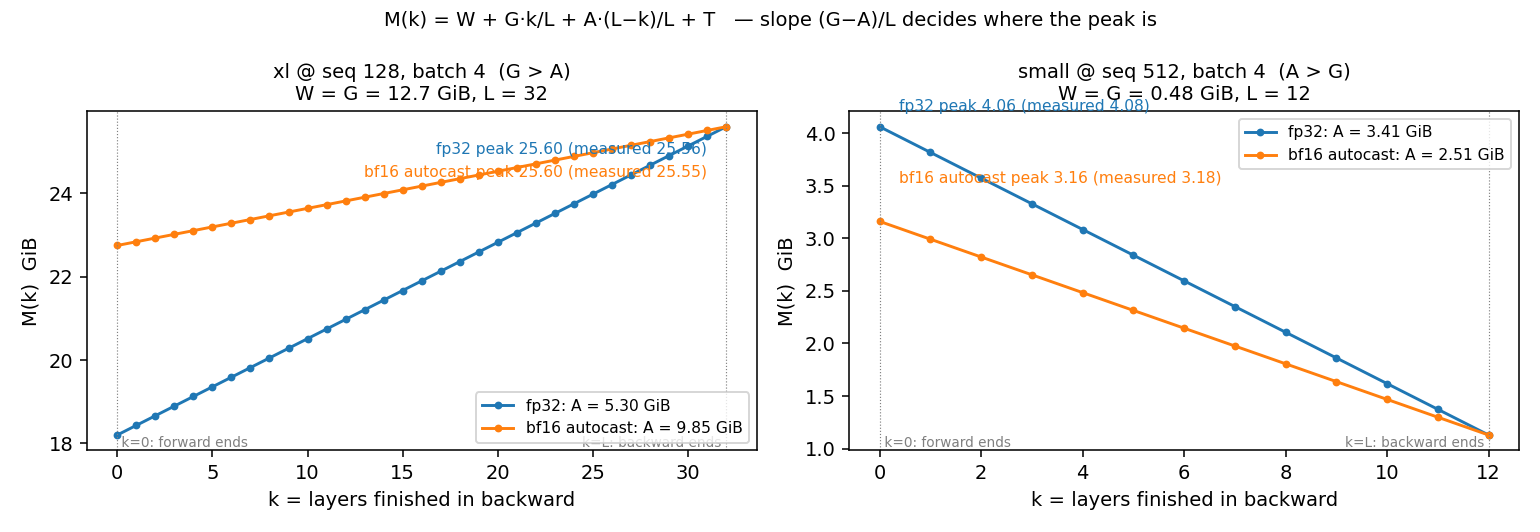
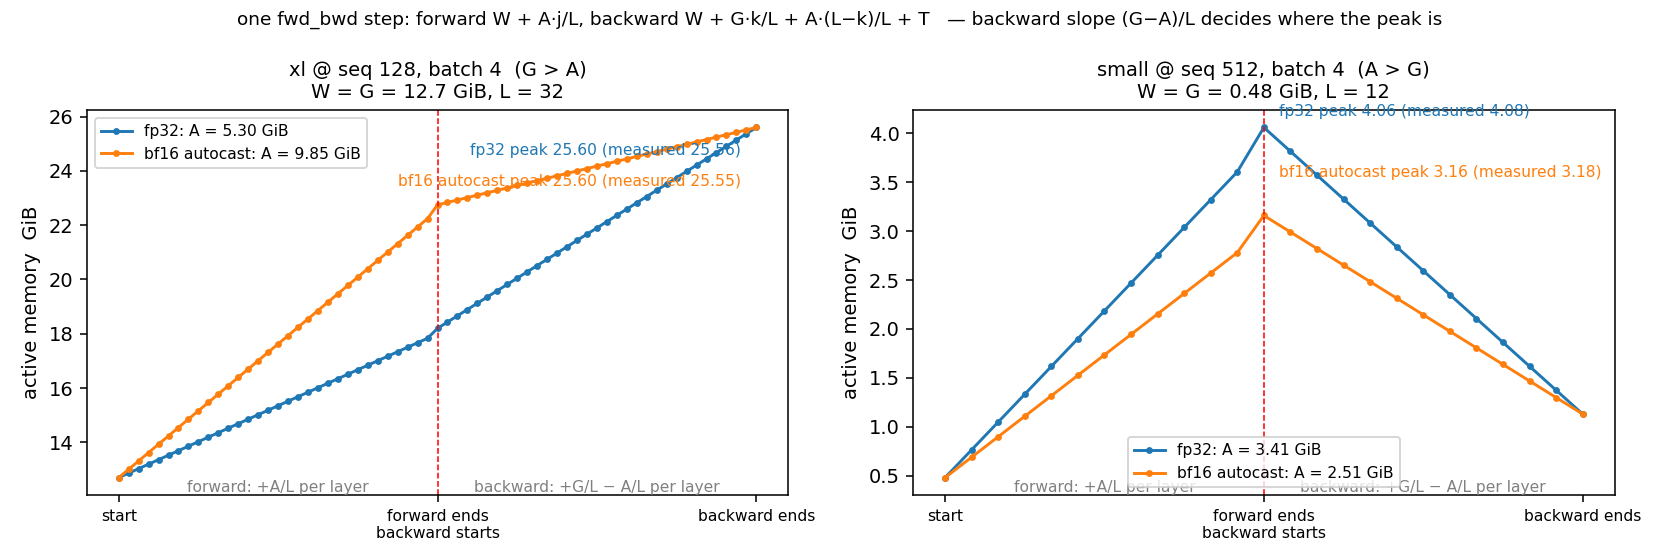
docs(blog): M(k) 图加上前向段，前向末尾含 T

diff --git a/hw2/notes/assets/s2/plot_peak_moment.py b/hw2/notes/assets/s2/plot_peak_moment.py
@@ -1,24 +1,29 @@
-"""§2.3(d)(e)：M(k) = W + G·k/L + A·(L−k)/L + T，xl@128 与 small@512，fp32 vs bf16 autocast。数字来自 memory_xl_peak.md / autocast_saved_tensors.txt。"""
+"""§2.3(d)(e)：一步 fwd_bwd 的显存曲线。前向第 j 层结束：W + A·j/L（末尾加 T）；反向走完 k 层：W + G·k/L + A·(L−k)/L + T。
+xl@128 与 small@512，fp32 vs bf16 autocast。数字来自 memory_xl_peak.md / autocast_saved_tensors.txt。"""
 import matplotlib.pyplot as plt
 
 cases = [  # name, L, W, G, A_fp32, A_bf16(含副本), T, 实测峰值 fp32/bf16
     ("xl @ seq 128, batch 4  (G > A)",    32, 12.7, 12.7, 5.3,  3.5 + 6.35, 0.2,  25.56, 25.55),
     ("small @ seq 512, batch 4  (A > G)", 12, 0.48, 0.48, 3.41, 2.28 + 0.23, 0.17, 4.08, 3.18),
 ]
-fig, axes = plt.subplots(1, 2, figsize=(11, 3.8))
+fig, axes = plt.subplots(1, 2, figsize=(12, 4))
 for ax, (name, L, W, G, A32, A16, T, p32, p16) in zip(axes, cases):
-    ks = list(range(L + 1))
+    xs = list(range(2 * L + 1))                       # 0..L 前向逐层，L..2L 反向逐层
     for j, (A, lab, c, meas) in enumerate([(A32, "fp32", "C0", p32), (A16, "bf16 autocast", "C1", p16)]):
-        M = [W + G * k / L + A * (L - k) / L + T for k in ks]
-        ax.plot(ks, M, marker="o", ms=3, c=c, label=f"{lab}: A = {A:.2f} GiB")
-        kp = max(ks, key=lambda k: M[k])
+        fwd = [W + A * i / L for i in range(L)] + [W + A + T]      # 前向末尾那一点已在算第一层反向，带上 T
+        bwd = [W + G * k / L + A * (L - k) / L + T for k in range(1, L + 1)]
+        M = fwd + bwd
+        ax.plot(xs, M, marker="o", ms=2.5, c=c, label=f"{lab}: A = {A:.2f} GiB")
+        kp = max(xs, key=lambda x: M[x])
         ax.annotate(f"{lab} peak {M[kp]:.2f} (measured {meas})", (kp, M[kp]), textcoords="offset points",
-                    xytext=(-10 if kp else 10, -14 - 12 * j if kp else 8 + 12 * j), ha="right" if kp else "left", fontsize=8, c=c)
-    ax.axvline(0, c="gray", lw=.6, ls=":"); ax.axvline(L, c="gray", lw=.6, ls=":")
-    ax.text(0, ax.get_ylim()[0], " k=0: forward ends", fontsize=7, c="gray", va="bottom")
-    ax.text(L, ax.get_ylim()[0], "k=L: backward ends ", fontsize=7, c="gray", va="bottom", ha="right")
+                    xytext=(-8, -14 - 16 * j) if kp > L else (8, 6 + 14 * j), ha="right" if kp > L else "left", fontsize=8, c=c)
+    ax.axvline(L, c="red", lw=.8, ls="--")
+    y0 = ax.get_ylim()[0]
+    ax.text(L / 2, y0, "forward: +A/L per layer", fontsize=8, c="gray", ha="center", va="bottom")
+    ax.text(1.5 * L, y0, "backward: +G/L − A/L per layer", fontsize=8, c="gray", ha="center", va="bottom")
     ax.set_title(f"{name}\nW = G = {W} GiB, L = {L}", fontsize=10)
-    ax.set_xlabel("k = layers finished in backward"); ax.set_ylabel("M(k)  GiB"); ax.legend(fontsize=8, loc="lower right" if G > A32 else "upper right")
-fig.suptitle("M(k) = W + G·k/L + A·(L−k)/L + T   — slope (G−A)/L decides where the peak is", fontsize=10)
+    ax.set_xticks([0, L, 2 * L]); ax.set_xticklabels(["start", "forward ends\nbackward starts", "backward ends"], fontsize=8)
+    ax.set_ylabel("active memory  GiB"); ax.legend(fontsize=8, loc="upper left" if G > A32 else "lower center")
+fig.suptitle("one fwd_bwd step: forward W + A·j/L, backward W + G·k/L + A·(L−k)/L + T   — backward slope (G−A)/L decides where the peak is", fontsize=9.5)
 fig.tight_layout()
 fig.savefig("notes/assets/s2/peak_moment.png", dpi=140)

diff --git a/hw2/notes/blog.md b/hw2/notes/blog.md
@@ -335,7 +335,7 @@ OOM 行括号里是炸掉前的水位（`memory_xl_peak.md`），受碎片和同
 
 T 是常数偏移，M(k) 对 k 是直线、斜率 (G − A)/L，峰值必在两端之一，看 **A 和 G 谁大**：
 
-![M(k)：xl@128 上坡、small@512 下坡，两端的预测峰值与实测对上](assets/s2/peak_moment.png)
+![一步 fwd_bwd 的显存曲线：前向逐层 +A/L，反向逐层 +G/L − A/L；xl@128 反向上坡、small@512 反向下坡，预测峰值与实测对上](assets/s2/peak_moment.png)
 
 | | A > G（saved tensors 比一份权重大） | G > A |
 |:--|:--|:--|
